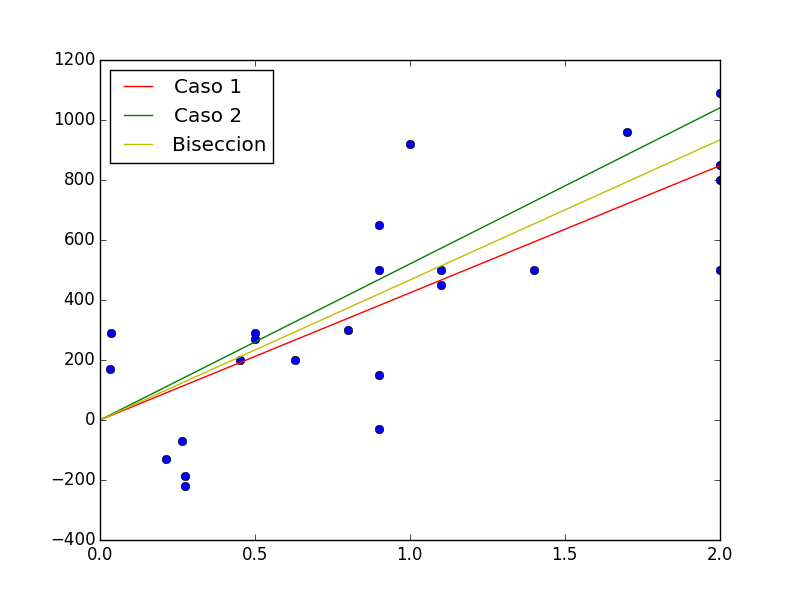
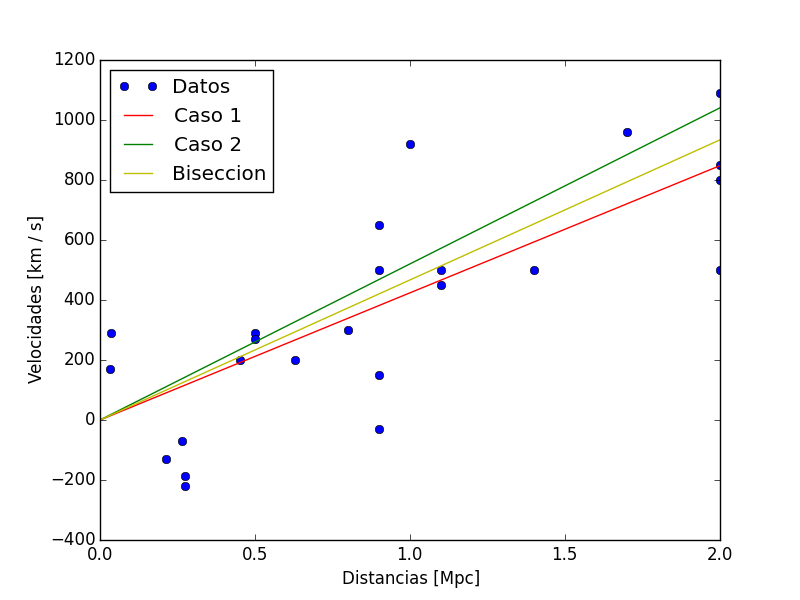
se agrega funcion fit_data que hace simetria en los resultados de simulacion de montecarlo

diff --git a/p3.py b/p3.py
@@ -1,8 +1,28 @@
+'''
+Este script lee los datos del archivo DR9Q.dat y calcula la recta que mejor
+relaciona el flujo de la banda i con el de la banda z.
+Realiza una simulacion de monte carlo para calcular el intervalo de
+confianza al 95%.
+Realiza 3 plots:
+1) Datos + recta con ajuste lineal
+2) Histograma para pendiente
+3) Histograma para coeficiente de posicion
+'''
+
 from __future__ import division
 import numpy as np
 import os
 import matplotlib.pyplot as plt
 from scipy import stats
+
+
+def biseccion(I, Z):
+    coef1 = np.polyfit(I, Z, 1)
+    coef2 = np.polyfit(Z, I, 1)
+    x_c = (coef1[1]*coef2[0]+coef2[1])/(1.0-coef1[0]*coef2[0])
+    y_c = coef1[0]*x_c + coef1[1]
+    m = np.tan((np.arctan(coef1[0]) + np.arctan(1.0/coef2[0])) / 2.0)
+    return (m, y_c - m*x_c)
 
 
 # importando flujos y errores
@@ -21,10 +41,10 @@ for i in range(Nmc):
     r = np.random.normal(0, 1, size=len(flujo_i))
     muestra_i = flujo_i + error_i * r
     muestra_z = flujo_z + error_z * r
-    pendientes[i], coefs_posicion[i] = np.polyfit(muestra_i, muestra_z, 1)
+    f = biseccion(muestra_i, muestra_z)
+    pendientes[i], coefs_posicion[i] = f[0], f[1]
 
-a, b = np.polyfit(flujo_i, flujo_z, 1)
-
+a, b = biseccion(flujo_i, flujo_z)
 
 # calculando intervalo de confianza
 pendientes_ord = np.sort(pendientes)
@@ -44,8 +64,7 @@ print """El intervalo de confianza al
 fig1 = plt.figure(1)
 fig1.clf()
 plt.hist(coefs_posicion, bins=30, facecolor='g', alpha=0.5)
-#plt.axvline(b, color='r', label="Valor encontrado con ajuste lineal")
-plt.axvline(np.mean(coefs_posicion), color='r', label="Valor promedio montecarlo")
+plt.axvline(b, color='r', label="Valor encontrado con ajuste lineal")
 plt.axvline(limite_bajo_2, color='b',
             label="Extremos intervalo de confianza al 95$\%$")
 plt.axvline(limite_alto_2, color='b', linewidth=1)
@@ -59,9 +78,7 @@ plt.savefig('histo_p3_1.png')
 fig2 = plt.figure(2)
 fig2.clf()
 plt.hist(pendientes, bins=30, facecolor='g', alpha=0.5)
-#plt.axvline(a, color='r', label="Valor encontrado con ajuste lineal")
-# esos cambios de # no estan reportados!
-plt.axvline(np.mean(pendientes), color='r', label="Valor promedio montecarlo")
+plt.axvline(a, color='r', label="Valor encontrado con ajuste lineal")
 plt.axvline(limite_bajo_1, color='b',
             label="Extremos intervalo de confianza al 95$\%$")
 plt.axvline(limite_alto_1, color='b')
@@ -78,8 +95,7 @@ fig3 = plt.figure(3)
 fig3.clf()
 plt.errorbar(flujo_i, flujo_z, xerr=error_i, yerr=error_z, fmt="o",
              label="Datos ", color='g', alpha=0.5)
-#plt.plot(x, a * x + b, color='r', label="Ajuste lineal")
-plt.plot(x, np.mean(pendientes) * x + np.mean(coefs_posicion), color='r', label="Ajuste lineal")
+plt.plot(x, a * x + b, color='r', label="Ajuste lineal")
 plt.xlabel("Flujo banda i [$10^{-6}Jy$]")
 plt.ylabel("Flujo banda z [$10^{-6}Jy$]")
 plt.legend(loc=2)

diff --git a/p1.py b/p1.py
@@ -1,3 +1,13 @@
+'''
+Este script lee los datos del archivo hubble_original.dat y calcula la
+constante H0 de Hubble de los maneras: 1) v=H*d 2) v/H=D. Luego utiliza
+el metodo de biseccion para mezclar ambas soluciones.
+Realiza una simulacion de bootstrap para calcular el intervalo de
+confianza al 95%.
+Realiza 2 plots:
+1) Datos + 3 rectas (con los 2 H calculados y en H_biseccion como pendientes)
+2) Histograma para H0.
+'''
 from __future__ import division
 import numpy as np
 import os
@@ -60,14 +70,16 @@ limite_alto = values_ord[int(Nboot * 0.975)]
 print "El intervalo de confianza al 95% es: [{}:{}]".format(limite_bajo,
                                                             limite_alto)
 # plot 1
-x=np.linspace(0,2,100)
+x = np.linspace(0, 2, 100)
 fig1 = plt.figure(1)
 fig1.clf()
-plt.plot(distancias, velocidades, 'o')
+plt.plot(distancias, velocidades, 'o', label="Datos")
 plt.plot(x, x*H0_1, color='r', label="Caso 1")
 plt.plot(x, x*H0_2, color='g', label="Caso 2")
 plt.plot(x, x*np.mean(values_bis), color='y', label="Biseccion")
 plt.legend(loc=2)
+plt.xlabel("Distancias [Mpc]")
+plt.ylabel("Velocidades [km / s]")
 plt.draw()
 plt.show()
 plt.savefig('datos_y_rectas_p1.png')

diff --git a/p2.py b/p2.py
@@ -1,3 +1,14 @@
+'''
+Este script lee los datos del archivo SNIa.dat y calcula la
+constante H0 de Hubble de los maneras: 1) v=H*d 2) v/H=D. Luego utiliza
+el metodo de biseccion para mezclar ambas soluciones.
+Realiza una simulacion de bootstrap para calcular el intervalo de
+confianza al 95%.
+Realiza 2 plots:
+1) Datos + 3 rectas (con los 2 H calculados y en H_biseccion como pendientes)
+2) Histograma para H0.
+'''
+
 from __future__ import division
 import numpy as np
 import os
@@ -61,14 +72,16 @@ print "El intervalo de confianza al 95% es: [{}:{}]".format(limite_bajo,
 
 
 # plot 1
-x=np.linspace(0,600,1000)
+x = np.linspace(0, 600, 1000)
 fig1 = plt.figure(1)
 fig1.clf()
-plt.plot(distancias, velocidades, 'o')
+plt.plot(distancias, velocidades, 'o', label="Datos")
 plt.plot(x, x*(H0_1), color='r', label="Caso 1")
 plt.plot(x, x*(H0_2), color='g', label="Caso 2")
 plt.plot(x, x*(np.mean(values_bis)**-1), color='y', label="Biseccion")
 plt.legend(loc=2)
+plt.xlabel("Distancias [Mpc]")
+plt.ylabel("Velocidades [km / s]")
 plt.draw()
 plt.show()
 plt.savefig('datos_y_rectas_p2.png')
